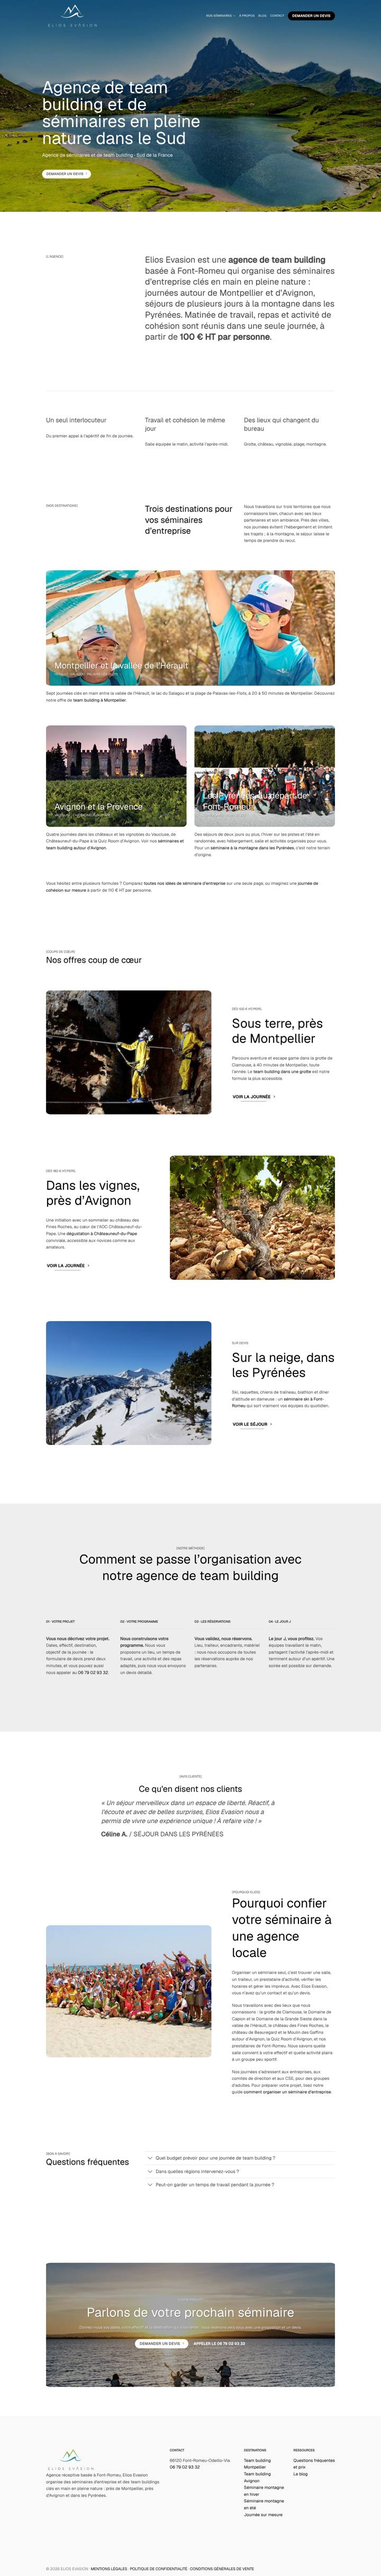
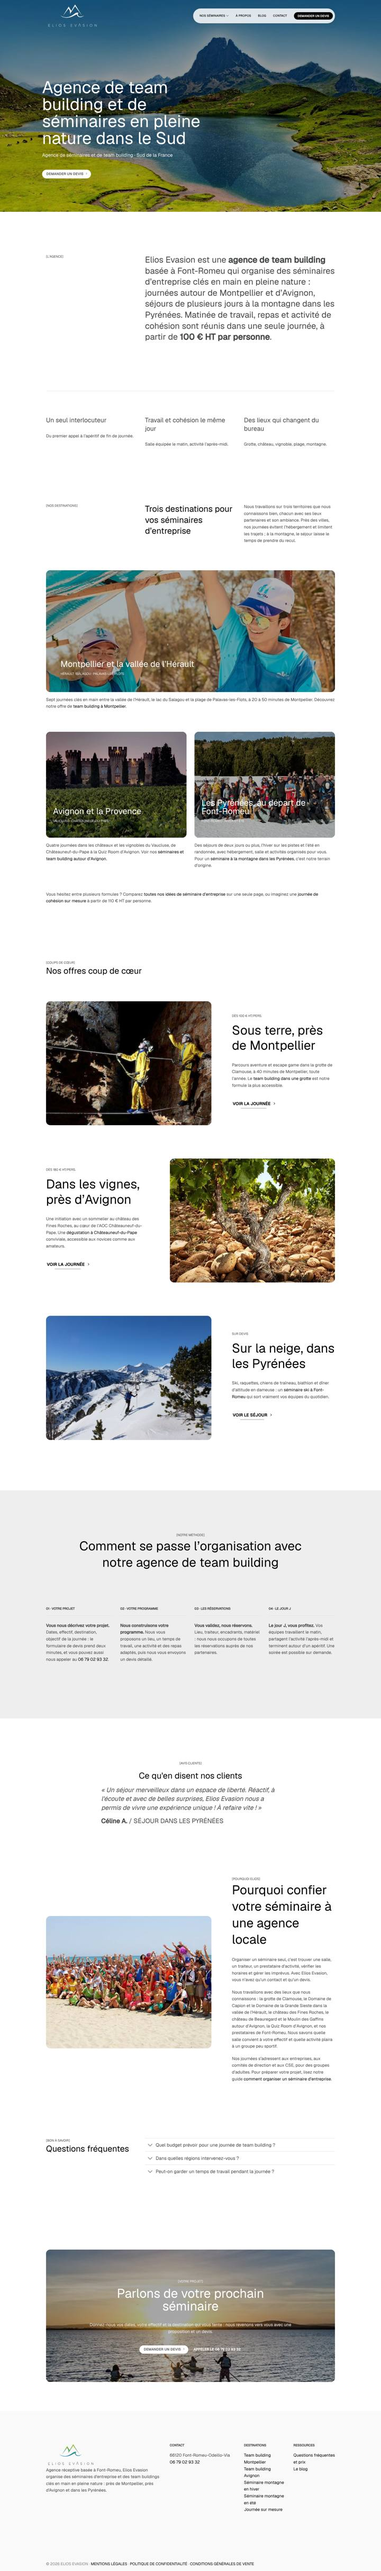
Accueil : images en ux_image et ux_banner, encarts arrondis à 16 px (CSS autorisé), import n° 3
Claude-Session: https://claude.ai/code/session_01JfUKqhuFk9sBzgWcwSgXTR

diff --git a/elios-evasion/dev/css/flatsome-custom-css.css b/elios-evasion/dev/css/flatsome-custom-css.css
@@ -1,0 +1,24 @@
+/* Menu pilule (header, ordinateur uniquement). Seul CSS perso autorisé par le client le 30/10/2026. */
+@media (min-width: 850px) {
+  .header-main .flex-right .header-nav-main {
+    background-color: rgba(255, 255, 255, 0.85);
+    -webkit-backdrop-filter: blur(12px);
+    backdrop-filter: blur(12px);
+    border-radius: 99px;
+    box-shadow: 0 4px 24px rgba(0, 0, 0, 0.08);
+    padding: 8px 8px 8px 24px;
+  }
+  .header-main .flex-right .header-nav-main > li > a,
+  .header-main .flex-right .header-nav-main > li > a:hover {
+    color: #000000;
+  }
+  .header-main .flex-right .header-nav-main > li > a:before {
+    background-color: #000000;
+  }
+}
+/* Encarts arrondis à 16 px : toute image ou tout banner placé dans une colonne. Autorisé par le client le 30/10/2026. */
+.col-inner .img-inner,
+.col-inner .banner {
+  border-radius: 16px;
+  overflow: hidden;
+}

diff --git a/elios-evasion/dev/css/encarts-arrondis.css b/elios-evasion/dev/css/encarts-arrondis.css
@@ -1,0 +1,6 @@
+/* Encarts arrondis à 16 px : toute image ou tout banner placé dans une colonne. Autorisé par le client le 30/10/2026. */
+.col-inner .img-inner,
+.col-inner .banner {
+  border-radius: 16px;
+  overflow: hidden;
+}

diff --git a/elios-evasion/dev/pages/accueil-ecarts.md b/elios-evasion/dev/pages/accueil-ecarts.md
@@ -35,11 +35,11 @@ Captures du 30/10 (2ᵉ version) : faites **après** l'import n° 2 (logo blanc 
 | **Hero refait le 30/10** d'après la maquette : bloc calé sur le bord gauche du conteneur (`position_x="0"`), bas du bloc à 85 % de la hauteur (`position_y="85"` ; au-delà de 50, Flatsome compte depuis le bas), H1, puis sous-titre de 18 px, puis **un seul bouton** blanc `size="small"`. Le sur-titre est devenu le sous-titre, et le lien « Voir nos séminaires » est retiré (déjà présent dans « Vous hésitez… »). Photo 47 | Retour du client | — |
 | **H1 du hero à environ 64 px** au lieu de 80 px, sur 4 lignes | Notre H1 SEO fait 70 caractères, contre 35 dans la maquette : à 80 px, il passait sur 5 lignes et sortait du bandeau | Garder 64 px, ou raccourcir le H1 (décision SEO) |
 | **H1 en graisse normale**, pas fine (light) | La graisse fine passe par la classe `alt-font` ; on ne met pas de classe à la main | Accepter, ou autoriser explicitement la classe `alt-font` fournie par Flatsome |
-| ~~Coins droits~~ **Corrigé le 30/10** : toutes les photos (cartes, offres, « Pourquoi », CTA) sont des `[ux_image_box image_radius]` arrondis | `.box-image` a `overflow:hidden`, donc la photo est découpée. `image_radius` est **en %** (unité forcée dans `ux_image_box.php` l. 80) : 2 à 3 % selon le format, soit environ 17 px en largeur. Sur les formats très allongés, les coins sont à peine elliptiques | — |
-| ~~Pas de dégradé~~ **Corrigé** : cartes destinations en `style="shade"` | Le style `shade` de `[ux_image_box]` ajoute un dégradé sombre natif en bas de la photo | — |
+| ~~Coins droits~~ **Corrigé (2ᵉ version, règle du client)** : photos en `[ux_image]`, ou en `[ux_banner]` avec texte ; arrondi de **16 px** par CSS global (`css/encarts-arrondis.css`, autorisé) | Ancienne solution `[ux_image_box image_radius]` abandonnée : arrondi en %, irrégulier, surtout sur le CTA | `.box-image` a `overflow:hidden`, donc la photo est découpée. `image_radius` est **en %** (unité forcée dans `ux_image_box.php` l. 80) : 2 à 3 % selon le format, soit environ 17 px en largeur. Sur les formats très allongés, les coins sont à peine elliptiques | — |
+| **Pas de dégradé** en bas des cartes destinations | `[ux_banner]` n'a qu'un voile uni (`bg_overlay`) ; le dégradé natif n'existait qu'avec `[ux_image_box]`, exclu par le client | Voile uni à 30 %, ou dégradé en CSS (à autoriser) |
 | **Espacements** (retour du client : « plus aéré ») **corrigés** | Sections à 160 px (80 px sur mobile), 48 px entre le titre d'une section et son contenu, 96 px entre les offres, marge de 48 px entre photo et texte (`padding` de colonne), `[gap]` entre les éléments | — |
 | **Pas d'espacement des lettres** sur les capitales | Pas d'option `letter-spacing` | Accepter |
-| **Menu sans pilule blanche translucide** | Pas d'option native | Menu en texte blanc sur la photo (en place) |
+| ~~Menu sans pilule~~ **Corrigé** : menu pilule en CSS (autorisé), dans l'import n° 3 | — | — |
 | **Intro « L'agence » à 32 px** au lieu de 48 px | 60 mots, contre 45 dans la maquette : à 48 px, le bloc devenait très long | Garder, ou monter à 40 px |
 | **Puces à la place des chiffres clés** | Chiffres `[PROVISOIRE]` | Chiffres vérifiés à fournir |
 | **Bouton « Demander un devis » sur 2 lignes** dans le header mobile | Bouton du header en taille normale | Réglage `header_button_1_size` (à décider) |

diff --git a/elios-evasion/dev/00-consignes-dev.md b/elios-evasion/dev/00-consignes-dev.md
@@ -7,7 +7,7 @@
 1. **Pas de CSS personnalisé.**
    - Rien dans « CSS personnalisé » (Flatsome > Avancé ou Customizer > CSS additionnel), rien dans un `style.css` de thème enfant, aucun attribut `style=""` écrit à la main dans les contenus, aucune classe inventée.
    - Seuls sont permis les **options Flatsome** (Customizer / theme mods) et les **attributs natifs des éléments UX Builder** (shortcodes).
-   - **Exception autorisée par le client le 30/10/2026 : le menu pilule du header**, et lui seul (`css/menu-pilule.css`, posé dans *Flatsome > Avancé > Custom CSS* par l'import n° 3).
+   - **Exceptions autorisées par le client le 30/10/2026**, et elles seules : le **menu pilule** du header (`css/menu-pilule.css`) et les **encarts arrondis à 16 px**, c'est-à-dire toute image ou tout banner placé dans une colonne (`css/encarts-arrondis.css`, sans classe). Les deux sont posés ensemble dans *Flatsome > Avancé > Custom CSS* par l'import n° 3 (`css/flatsome-custom-css.css`).
    - Les classes utilitaires **fournies par Flatsome** (ex. `form-flat`, `flex-row`, `button primary` dans les modèles Contact Form 7 du thème) sont permises, car elles font partie du thème.
 2. **Zéro hallucination.**
    - On n'utilise que ce qui est **vérifié dans le code source de Flatsome 3.20.12** (voir `reference-flatsome/`) ou dans la documentation officielle.
@@ -183,3 +183,4 @@ Tous les réglages passent par les options Flatsome. Chaque valeur est notée ic
 | 30/10/2026 | Retour du client sur le brouillon : plus d'air et photos à coins arrondis. Toutes les photos passent en `[ux_image_box]` arrondis (dégradé `shade` sur les cartes), et l'espacement passe à 160 px. Import n° 2 appliqué par le client. |
 | 30/10/2026 | Hero refait selon la hiérarchie de la maquette (H1, sous-titre, un seul bouton, bloc calé à gauche et en bas), avec la photo fournie par le client (média 47, pic du Midi d'Ossau). |
 | 30/10/2026 | Client : images uniquement en `[ux_image]` (ou `[ux_banner]` avec texte), encarts arrondis à 16 px ; CSS perso autorisé pour le **menu pilule uniquement** (import n° 3). Point bloquant : `[ux_image]` n'a pas d'attribut d'arrondi, et `bg_radius` de colonne ne découpe pas son contenu (pas d'`overflow:hidden` dans le thème). Question posée au client. |
+| 30/10/2026 | Client : CSS global sans classe pour arrondir à 16 px les images et banners placés dans une colonne (`.col-inner .img-inner, .col-inner .banner`). Photos reconstruites en `[ux_image]` et `[ux_banner]` (CTA compris). Import n° 3 = menu pilule + encarts + bouton du header `small` + `nav_spacing` `xlarge`. |

diff --git a/elios-evasion/dev/pages/accueil-options-globales.md b/elios-evasion/dev/pages/accueil-options-globales.md
@@ -80,3 +80,15 @@ Fichier : `../imports/flatsome-import-2-logo-header-footer.txt`, 9 clés vérifi
 4. Si les polices ne changent pas sur le site : cliquer sur le bouton de vidage du cache des typographies, dans la section *Typography* du Customizer (option `clear_typography_cache`).
 
 Il n'y a pas d'API REST pour cet import : c'est le client qui le fait dans l'admin.
+
+## Import n° 3 : CSS perso autorisé, bouton et espacement du menu
+
+Fichier : `../imports/flatsome-import-3-css-perso.txt`.
+
+| Clé | Valeur |
+|---|---|
+| `html_custom_css` | contenu de `../css/flatsome-custom-css.css` = `menu-pilule.css` (header, à partir de 850 px de large) + `encarts-arrondis.css` (16 px sur `.col-inner .img-inner` et `.col-inner .banner`) |
+| `header_button_1_size` | `small` (corrige aussi le bouton sur 2 lignes en mobile) |
+| `nav_spacing` | `xlarge` (choix vérifiés : `xsmall`, `small`, `''`, `medium`, `large`, `xlarge`) |
+
+⚠ L'import **remplace** tout le champ *Custom CSS* : pour modifier ce CSS plus tard, on édite les fichiers de `../css/` et on régénère l'import. On n'écrit pas directement dans l'admin.
